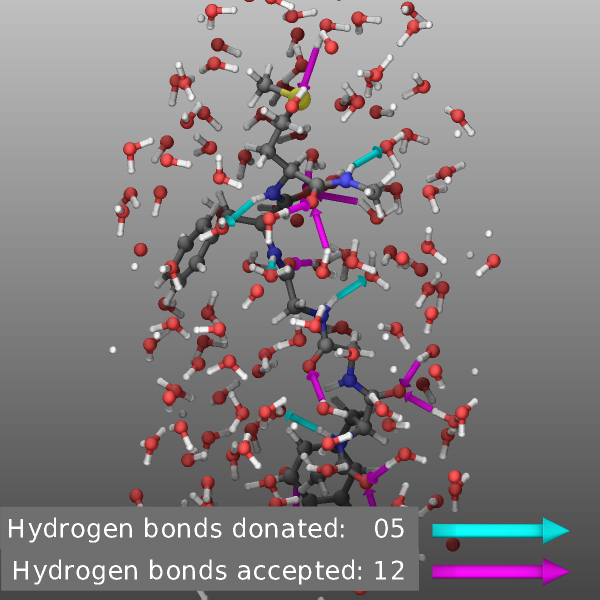
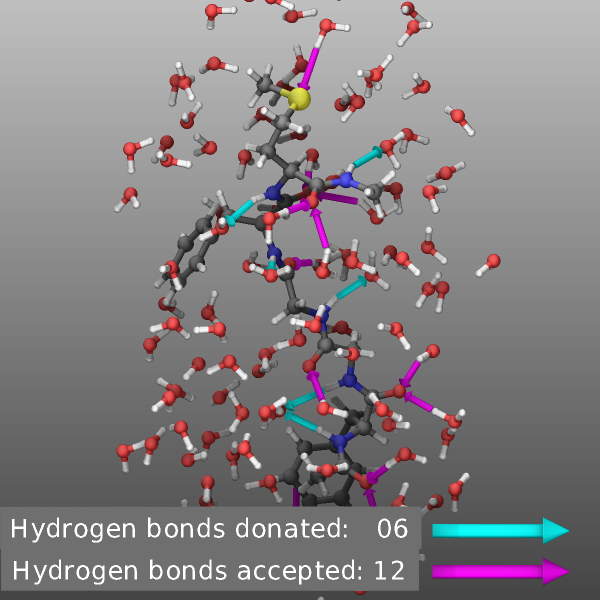
update examples with new dynamic group option and also update example image

diff --git a/doc/src/Howto_viz.rst b/doc/src/Howto_viz.rst
@@ -1015,8 +1015,8 @@ and the surrounding water molecules in both directions.
     variable  comx equal xcm(peptide,x)
     variable  comy equal xcm(peptide,y)
     variable  comz equal xcm(peptide,z)
-    region    shell ellipsoid v_comx v_comy v_comz 8.5 8.5 17.0
-    group     viz dynamic all region shell
+    region    shell ellipsoid v_comx v_comy v_comz 7.0 8.0 16.0
+    group     viz dynamic all region shell include molecule
 
     # define groups of donor and acceptor atoms for peptide and water
     group           pdonor    type 5